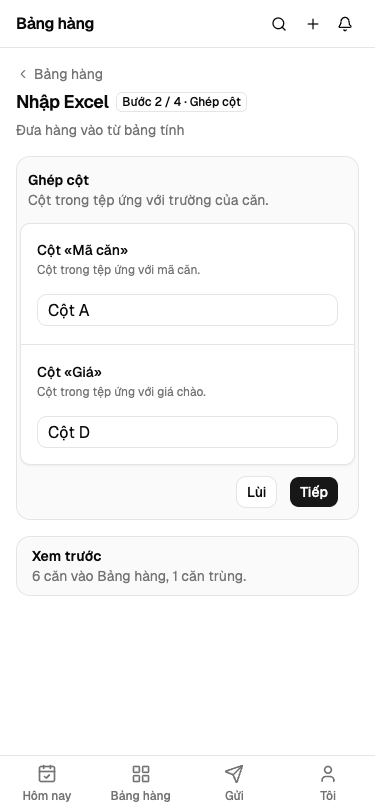
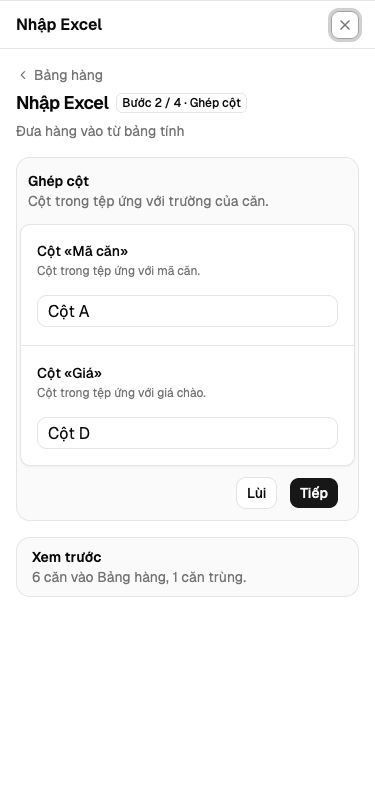
chore(he-bo-cuc): ảnh chuẩn Luồng nhiều bước 375 thành ngăn toàn màn; số đo vòng 2

diff --git a/_acceptance/he-bo-cuc/usage-report.md b/_acceptance/he-bo-cuc/usage-report.md
@@ -43,3 +43,46 @@ wall: 467s
 - **claude-sonnet-5-5**: 9 agent · 91 calls · out 85,228 · in 190 · cache_read 7,099,038 · cache_create 521,916
 - **claude-haiku-5-5**: 10 agent · 20 calls · out 16,441 · in 40 · cache_read 147,113 · cache_create 134,840
 
+### S4 round 2 — wf_3e8044c8-2f3 (21 agent, 154,741 out-tok)
+
+| label | model | calls | out | in | cache_read | s |
+|---|---|--:|--:|--:|--:|--:|
+| review:bugs | claude-opus-5-5 | 46 | 26,134 | 94 | 5,135,466 | 330 |
+| ui:E6 | claude-sonnet-5-5 | 25 | 25,544 | 52 | 2,571,046 | 292 |
+| review:measurement | claude-opus-5-5 | 18 | 16,125 | 36 | 1,338,856 | 174 |
+| ui:E4u | claude-sonnet-5-5 | 26 | 14,349 | 54 | 2,235,927 | 212 |
+| review:conventions | claude-opus-5-5 | 29 | 12,283 | 58 | 2,360,834 | 155 |
+| synthesize:report | claude-sonnet-5-5 | 6 | 11,937 | 12 | 257,050 | 76 |
+| ui:E7u | claude-sonnet-5-5 | 15 | 11,711 | 32 | 1,210,540 | 196 |
+| ui:E10u | claude-sonnet-5-5 | 16 | 10,287 | 34 | 1,278,014 | 145 |
+| baseline:diffBase | claude-sonnet-5-5 | 3 | 5,334 | 6 | 43,081 | 61 |
+| triage | claude-sonnet-5-5 | 2 | 4,398 | 4 | 17,839 | 32 |
+| machine:npm test -w @quy-hang/web | claude-haiku-5-5 | 2 | 2,200 | 4 | 15,033 | 13 |
+| machine:npm test -w @quy-hang/api | claude-haiku-5-5 | 2 | 2,195 | 4 | 15,033 | 69 |
+| machine:npm run lint | claude-haiku-5-5 | 2 | 2,164 | 4 | 15,017 | 17 |
+| machine:npm test -w @quy-hang/core | claude-haiku-5-5 | 2 | 1,913 | 4 | 15,033 | 9 |
+| machine:npm test -w @quy-hang/ui-lint | claude-haiku-5-5 | 2 | 1,855 | 4 | 11,901 | 26 |
+| machine:node packages/ui-lint/kiem-chuan.mjs | claude-haiku-5-5 | 2 | 1,802 | 4 | 15,049 | 9 |
+| machine:npm test -w @quy-hang/connect | claude-haiku-5-5 | 2 | 1,123 | 4 | 15,693 | 6 |
+| machine:npm run test:hooks | claude-haiku-5-5 | 2 | 1,062 | 4 | 15,829 | 9 |
+| machine:R="${CLAUDE_PLUGIN_ROOT:-$(node packages | claude-haiku-5-5 | 2 | 1,028 | 4 | 15,107 | 7 |
+| machine:npm run typecheck | claude-haiku-5-5 | 2 | 870 | 4 | 16,171 | 17 |
+| capture:provenance | claude-sonnet-5-5 | 2 | 427 | 4 | 11,961 | 6 |
+
+
+wall: 451s
+
+| vai tro | agents | out | cache_read | wall s | bat dau | ket thuc |
+|---|--:|--:|--:|--:|---|---|
+| baseline | 1 | 5,334 | 43,081 | 61 | 06:03:09 | 06:04:10 |
+| machine | 10 | 16,212 | 149,866 | 166 | 06:03:09 | 06:05:54 |
+| ui | 4 | 61,891 | 7,295,527 | 296 | 06:03:09 | 06:08:05 |
+| review | 3 | 54,542 | 8,835,156 | 331 | 06:03:09 | 06:08:40 |
+| triage | 1 | 4,398 | 17,839 | 32 | 06:08:42 | 06:09:14 |
+| capture | 1 | 427 | 11,961 | 6 | 06:09:16 | 06:09:22 |
+| synthesize | 1 | 11,937 | 257,050 | 76 | 06:09:24 | 06:10:40 |
+
+- **claude-opus-5-5**: 3 agent · 93 calls · out 54,542 · in 188 · cache_read 8,835,156 · cache_create 399,915
+- **claude-sonnet-5-5**: 8 agent · 95 calls · out 83,987 · in 198 · cache_read 7,625,458 · cache_create 507,953
+- **claude-haiku-5-5**: 10 agent · 20 calls · out 16,212 · in 40 · cache_read 149,866 · cache_create 137,770
+
